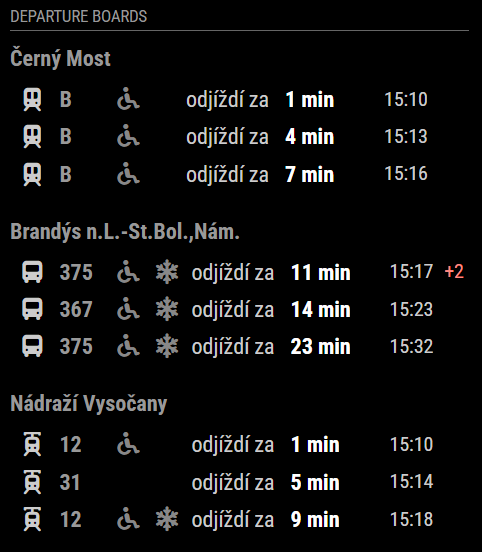
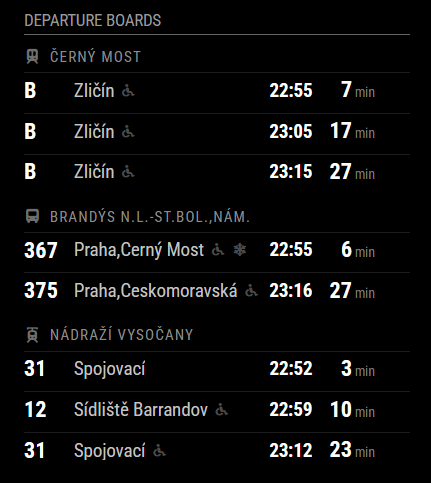
Start the changelog at 1.0.0 and route Dependabot to dev
Add the 1.0.0 entry for the redesigned board, update the README
screenshot, and send Dependabot pull requests to dev so all changes
reach main through the same release PR.

diff --git a/CHANGELOG.md b/CHANGELOG.md
@@ -1,1 +1,20 @@
 # Changelog
+
+All notable changes to this project are documented in this file.
+The format is based on [Keep a Changelog](https://keepachangelog.com/en/1.1.0/),
+and this project adheres to [Semantic Versioning](https://semver.org/spec/v2.0.0.html).
+
+## [Unreleased]
+
+## [1.0.0] - 2026-11-09
+
+### Changed
+
+- Redesigned departure board: one compact line per departure (line, destination, departure time, countdown) grouped under each stop. The time already includes the delay, which is shown as a red `+X` after the countdown.
+
+### Note
+
+- CSS classes changed (`.pid-departures-table`, `.departs-in-text` and `.pid-departure-time` were removed). If you restyled the module in `custom.css`, update your selectors. The configuration is unchanged.
+
+[Unreleased]: https://github.com/lucasbotka/MMM-PID/compare/v1.0.0...HEAD
+[1.0.0]: https://github.com/lucasbotka/MMM-PID/releases/tag/v1.0.0
